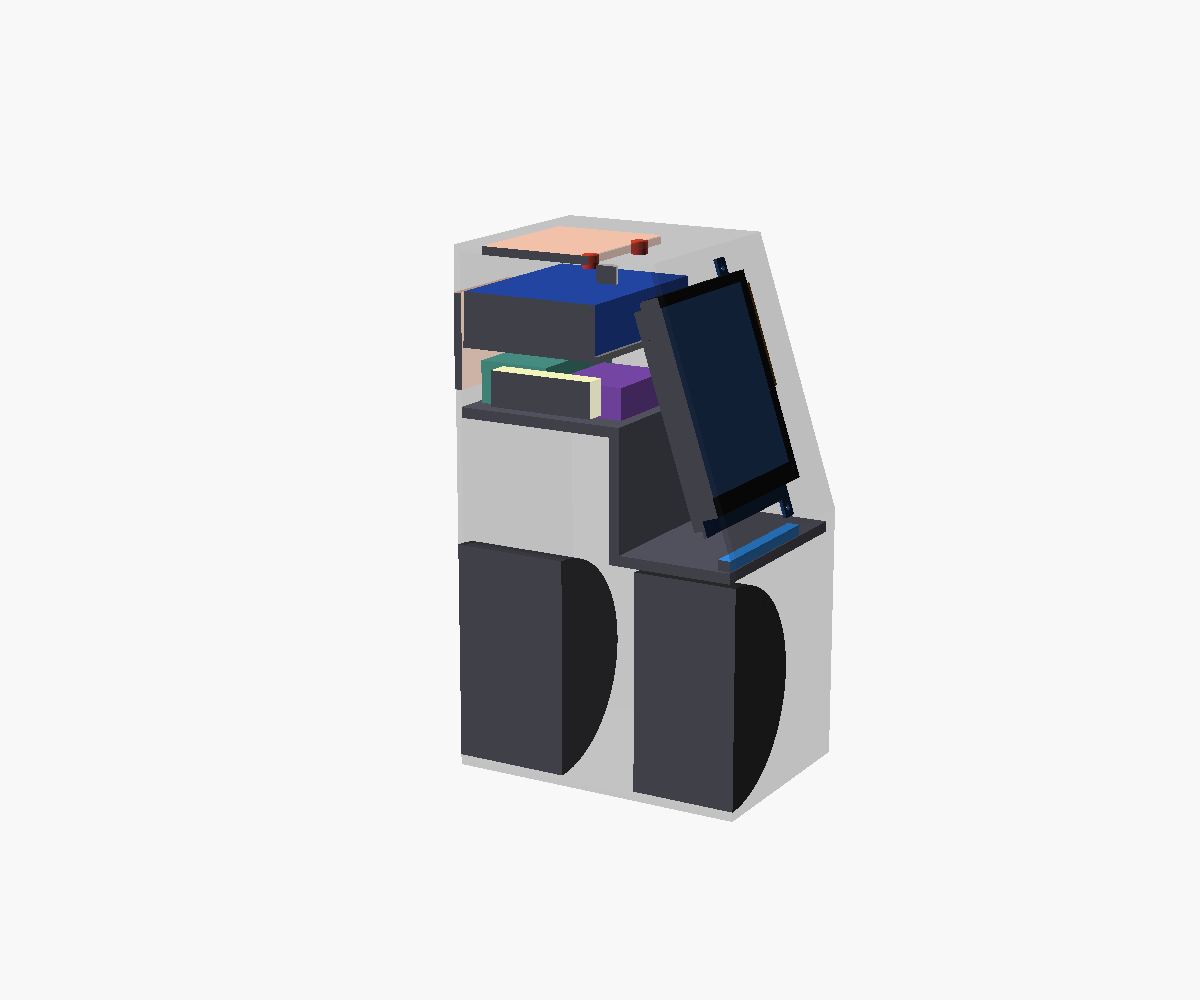
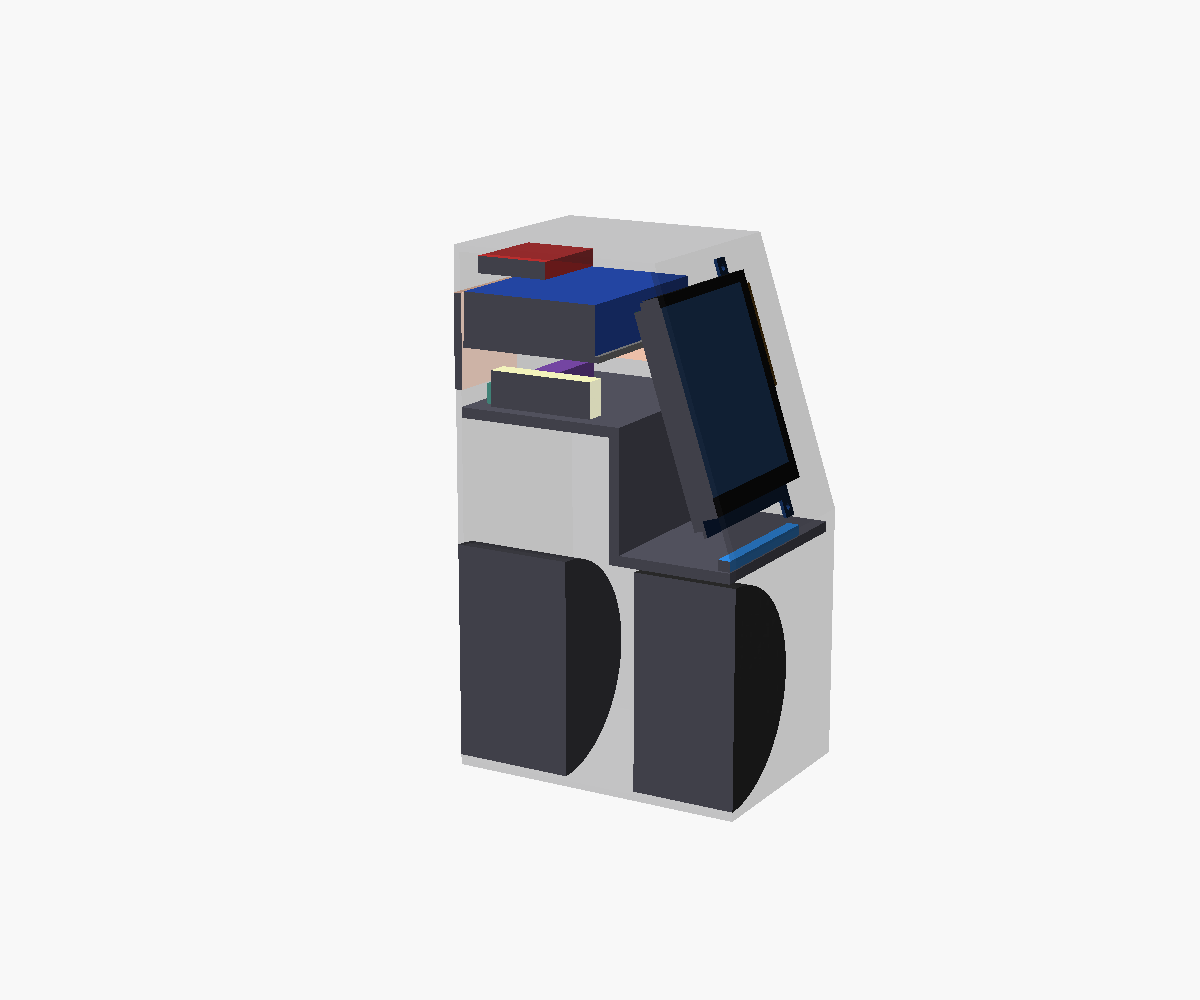
Electrónica: DAC, micrófonos, conversor y fuente
GY-PCM5102, ReSpeaker Lite USB, Pololu D36V50F5 y Mean Well GST60A24,
con presupuesto de consumo, cableado y modelo actualizado.

Claude-Session: https://claude.ai/code/session_011wCrvR5XLZziNZnBQxWkpT

Changed region(s): [[0.4625, 0.558, 0.5242, 0.775], [0.4008, 0.341, 0.555, 0.434], [0.4008, 0.217, 0.555, 0.279]]

diff --git a/tools/comprobar_volumetrico.py b/tools/comprobar_volumetrico.py
@@ -30,7 +30,7 @@ BRACING_L = 0.10
 
 # Componentes sólidos que no deben tocarse entre sí
 COMPONENTS = ["screen", "screen_conn", "pi_port_clear", "speaker", "pr", "pi5",
-              "kabd", "buck", "dac", "bracket", "dc_jack", "led_bar", "mics", "camera"]
+              "kabd", "buck", "dac", "bracket", "dc_jack", "led_bar", "mics"]
 # Componentes que atraviesan la pared o la cámara a propósito
 MAY_CROSS_SHELL = {"speaker", "pr", "dc_jack"}
 MAY_ENTER_CHAMBER = {"speaker", "pr"}

diff --git a/docs/10_electronica.md b/docs/10_electronica.md
@@ -1,7 +1,79 @@
 # 10 — Electrónica
-Camino de audio previsto:
-`Pi 5 → DAC I²S → analógico → KABD-250 → DMA105-4`
 
-El DAC definitivo está pendiente.
+## Esquema
+```text
+Fuente 24 V externa (GST60A24, 60 W)
+   │  conector DC de panel (trasera)
+   ├──────────────► KABD-250 (amplificador + DSP) ──► DMA105-4
+   │                     ▲ entrada AUX analógica
+   └─► Pololu D36V50F5 (24 → 5 V, 5,5 A)
+          ├─► Raspberry Pi 5 (USB-C)
+          │      ├─ I²S ──► GY-PCM5102 (DAC) ──► jack 3,5 mm ──► AUX del KABD-250
+          │      ├─ HDMI + USB ──► pantalla Waveshare 7"
+          │      ├─ USB ──► ReSpeaker Lite (micrófonos)
+          │      └─ SPI (GPIO10) ──► 74AHCT125 ──► barra WS2812B
+          └─► alimentación de la barra WS2812B
+```
 
-Iluminación: 8–12 WS2812B.
+## Selección
+| Función | Modelo | Por qué | Medidas |
+|---|---|---|---|
+| DAC | **GY-PCM5102** (PCM5102A) | El KABD-250 solo tiene entrada analógica y Bluetooth, sin I²S. Barato, bien soportado en la Pi 5 (`dtoverlay=hifiberry-dac`), 112 dB SNR, salida jack de 2,1 V rms | 32 × 14 mm |
+| Micrófonos | **ReSpeaker Lite USB** (XMOS XU316, 2 micrófonos) | Cancelación de eco, supresión de ruido y ganancia automática por hardware, por USB. El XVF3800 (4 micrófonos) es mejor, pero su placa de 99 mm no cabe bajo el techo con la pantalla inclinada delante | 86 × 35 mm |
+| Conversor 24 → 5 V | **Pololu D36V50F5** | 5 V, 5,5 A, entrada de 5,5 a 50 V, 80–95 % de rendimiento, muy compacto | 25,4 × 25,4 × 9,5 mm |
+| Fuente | **Mean Well GST60A24-P1J** | 24 V, 2,5 A, 60 W, de sobremesa, clavija 5,5 × 2,1 mm. Da un 60 % de margen sobre el pico calculado | externa |
+| LEDs | Barra WS2812B (8–12) + **SN74AHCT125** | La Pi da 3,3 V y los WS2812B esperan 5 V en datos: el 74AHCT125 adapta el nivel | — |
+
+## Presupuesto de consumo (estimación)
+**Rama de 5 V**
+
+| Consumidor | Pico estimado |
+|---|---:|
+| Raspberry Pi 5 + Active Cooler | 15 W |
+| Pantalla Waveshare 7" | 3 W |
+| ReSpeaker Lite | 0,5 W |
+| DAC | < 0,1 W |
+| 12 × WS2812B, brillo limitado al 40 % | 1,5 W (3,6 W al 100 %) |
+| **Total** | **≈ 20 W → 4 A a 5 V** (conversor de 5,5 A: margen de 1,5 A) |
+
+**Rama de 24 V**
+
+| Consumidor | Pico estimado |
+|---|---:|
+| Conversor (20 W / 0,9) | 22 W |
+| KABD-250, un canal a ≈10 W (límite del Xmax, ver `05_audio.md`) | 13 W |
+| **Total** | **≈ 35 W** (fuente de 60 W) |
+
+El KABD-250 recomienda 4 A porque está pensado para 2 × 50 W. Aquí solo se usa un canal y el altavoz no admite más de unos 10 W en graves, así que 2,5 A sobran.
+
+## Conexiones
+### Alimentación de la Pi 5
+- Del Pololu a la Pi con un cable USB-C corto (solo alimentación) y cable de 0,5 mm² o más grueso.
+- La Pi 5 solo reconoce 5 A si la fuente lo anuncia por USB-PD, y el Pololu no lo hace. Para que los USB den su corriente completa (la pantalla y los micrófonos cuelgan de ellos):
+  - EEPROM (`sudo rpi-eeprom-config --edit`): `PSU_MAX_CURRENT=5000`
+  - `/boot/firmware/config.txt`: `usb_max_current_enable=1`
+
+### DAC GY-PCM5102 → Pi 5
+| DAC | Pi 5 (pin) |
+|---|---|
+| VIN | 3,3 V (1) |
+| GND | GND (6) |
+| BCK | GPIO18 (12) |
+| LRCK | GPIO19 (35) |
+| DIN | GPIO21 (40) |
+| SCK | a GND (el PCM5102A genera el reloj internamente) |
+
+`/boot/firmware/config.txt`: `dtoverlay=hifiberry-dac`. Del jack del DAC al AUX del KABD-250 con el cable de 3,5 mm que trae la placa.
+
+### Barra WS2812B
+- Datos: GPIO10 (SPI0 MOSI, pin 19) → 74AHCT125 alimentado a 5 V → resistencia de 330 Ω → DIN del primer LED.
+- Condensador de 1000 µF entre 5 V y GND en la entrada de la barra.
+- La librería clásica `rpi_ws281x` no funciona en la Pi 5 (su chip de E/S, el RP1, es distinto). Se controla por SPI, por ejemplo con `adafruit-circuitpython-neopixel-spi`.
+
+## Audio: filtro y cancelación de eco
+- **Filtro paso alto de 40 Hz (D022) y ecualización:** en la Pi, con CamillaDSP o un filtro de PipeWire. Así no hace falta el programador DSPB-ICP1 para el DSP del KABD-250, que se queda con sus ajustes por defecto y los potenciómetros.
+- **Cancelación de eco:** el ReSpeaker Lite cancela el eco por hardware si recibe como referencia el mismo audio que suena. La música sale por el DAC, así que PipeWire envía una copia al ReSpeaker por USB; su salida queda sin conectar. Si esa vía no funciona bien, la alternativa es la cancelación de eco por software de PipeWire (`module-echo-cancel`, WebRTC), que funciona con cualquier micrófono.
+
+## Pendiente
+- Confirmar la separación real de los micrófonos del ReSpeaker Lite para situar los agujeros del techo.
+- Cámara opcional: sin sitio en el techo; posición por decidir.

diff --git a/docs/DECISIONS.md b/docs/DECISIONS.md
@@ -11,15 +11,17 @@
 | D008 | Cámara acústica independiente y estanca | Cerrada |
 | D009 | Envolvente 205×250×145 mm (validada en v0.3: da ≈3,3 L netos) | Provisional |
 | D010 | OpenSCAD | Cerrada |
-| D011 | DAC | Pendiente |
-| D012 | Micrófonos | Pendiente |
-| D013 | Fuente 24 V | Pendiente |
-| D014 | Buck 24→5 V | Pendiente |
+| D011 | DAC GY-PCM5102 (PCM5102A) por I²S → AUX del KABD-250 | Propuesta |
+| D012 | Micrófonos ReSpeaker Lite USB (2 micrófonos, AEC por hardware) bajo el techo | Propuesta |
+| D013 | Fuente Mean Well GST60A24-P1J (24 V, 60 W) | Propuesta |
+| D014 | Conversor Pololu D36V50F5 (5 V, 5,5 A) | Propuesta |
 | D015 | Perfil lateral: frontal inferior vertical (bafle) hasta z = 122 mm + frontal superior inclinado 18° con la pantalla. Laterales rectos (con estrechamiento no caben las clavijas de la pantalla) | Propuesta (v0.3) |
 | D016 | Cámara acústica en L: bloque inferior de ancho y fondo completos + bloque superior-trasero detrás de la pantalla | Propuesta (v0.3) |
-| D017 | Electrónica en bahía superior sobre la tapa de la cámara: Pi 5, buck y DAC en el suelo; KABD-250 en una balda encima (lado derecho). Ventilación pasiva solo en la bahía (rejilla trasera superior + techo trasero). Ningún ventilador ni rejilla en la zona de la cámara | Propuesta (v0.3) |
+| D017 | Electrónica en bahía superior sobre la tapa de la cámara: Pi 5, buck y DAC en el suelo; KABD-250 en una balda encima (lado derecho). Ventilación pasiva solo en la bahía (rejillas trasera superior y laterales). Ningún ventilador ni rejilla en la zona de la cámara | Propuesta (v0.3) |
 | D018 | DMA105-PR en la trasera inferior, coaxial con el DMA105-4 | Propuesta (v0.3) |
 | D019 | Trasera: entrada DC 24 V de panel en la bahía superior. Los puertos de la Pi no salen al exterior; si hace falta USB/HDMI externo, alargador de panel | Propuesta (v0.3) |
-| D020 | Micrófonos (hasta 4) y cámara opcional en el techo, zona delantera, lo más lejos posible del DMA105-4 | Propuesta (v0.3) |
+| D020 | Micrófonos en el techo, en la zona trasera (lo más lejos posible del DMA105-4). Cámara opcional: posición pendiente | Propuesta (v0.3) |
 | D021 | Conexión de la pantalla con clavijas acodadas: HDMI (cable plano o adaptador a 90° → micro-HDMI de la Pi) y micro-USB táctil acodado. Hueco lateral reservado de 15 mm | Propuesta (v0.3) |
-| D022 | Filtro paso alto a ≈40 Hz en el DSP del KABD-250 para proteger el altavoz por debajo de la sintonía | Propuesta |
+| D022 | Filtro paso alto a ≈40 Hz en la Pi (CamillaDSP/PipeWire) para proteger el altavoz por debajo de la sintonía | Propuesta |
+| D023 | LEDs WS2812B por SPI (GPIO10) con adaptador de nivel SN74AHCT125 | Propuesta |
+| D024 | Cancelación de eco por hardware en el ReSpeaker Lite; alternativa por software en PipeWire | Propuesta |

diff --git a/docs/BOM.md b/docs/BOM.md
@@ -6,17 +6,19 @@
 | Audio | Dayton DMA105-4 | 1 | Propuesto | Al cerrar diseño |
 | Audio | Dayton DMA105-PR | 1 | Propuesto | Al cerrar diseño |
 | Amplificación | Dayton KABD-250 | 1 | Propuesto | Al cerrar diseño |
-| Audio | DAC I²S→analógico | 1 | En estudio | No comprar todavía |
-| Micrófonos | Matriz 2–4 micrófonos | 1 | En estudio | No comprar todavía |
+| Audio | GY-PCM5102 (DAC I²S PCM5102A) | 1 | Propuesto | Al cerrar diseño |
+| Micrófonos | ReSpeaker Lite USB (2 micrófonos, XU316) | 1 | Propuesto | Al cerrar diseño |
 | Cámara | Compatible Pi | 1 | Opcional | Opcional |
 | LEDs | WS2812B | 8–12 | Propuesto | Al cerrar diseño |
-| Alimentación | Fuente externa 24 V (fuera de la carcasa) | 1 | En estudio | No comprar todavía |
+| Alimentación | Mean Well GST60A24-P1J (24 V, 60 W, externa) | 1 | Propuesto | Al cerrar diseño |
 | Alimentación | Conector DC de panel 24 V | 1 | En estudio | Al cerrar diseño |
-| Alimentación | Buck 24→5 V | 1 | En estudio | No comprar todavía |
+| Alimentación | Pololu D36V50F5 (24 → 5 V, 5,5 A) | 1 | Propuesto | Al cerrar diseño |
 | Refrigeración | Pi 5 Active Cooler | 1 | Necesario | Comprar ahora |
 | Acústica | Espuma/relleno acústico para la cámara | 1 | Propuesto | Al cerrar diseño |
 | Acústica | Junta de estanqueidad (burlete EPDM fino) | 1 | Propuesto | Al cerrar diseño |
 | Cableado | Cable HDMI plano A → micro-HDMI con cabezales a 90° | 1 | Necesario | Al cerrar diseño |
 | Cableado | Cable micro-USB acodado → USB-A (táctil) | 1 | Necesario | Al cerrar diseño |
 | Mecánica | Tornillos M2.5 × 6 autorroscantes (pantalla) | 4 | Necesario | Comprar ahora |
+| Electrónica | Adaptador de nivel SN74AHCT125 + resistencia 330 Ω + condensador 1000 µF (LEDs) | 1 | Propuesto | Al cerrar diseño |
+| Cableado | Cable USB-C corto solo alimentación (Pololu → Pi 5) | 1 | Necesario | Al cerrar diseño |
 | Mecánica | Inserts/tornillos M3 | varios | Necesario | Al cerrar diseño |

diff --git a/docs/08_distribucion.md b/docs/08_distribucion.md
@@ -18,15 +18,15 @@ Envolvente de trabajo: **205 × 250 × 145 mm** (ancho × alto × fondo).
 | Interior inferior + superior-trasero | Cámara acústica en L (D016) |
 | Trasera inferior | DMA105-PR (D018) |
 | Bahía superior (z ≥ 175 mm) | Suelo: Pi 5 con Active Cooler (izquierda), buck y DAC (derecha). Balda encima: KABD-250. Huecos de 20 mm delante de los puertos de la Pi |
-| Trasera superior | Rejilla de ventilación + entrada DC 24 V (D017, D019) |
-| Techo | Micrófonos (4) y cámara opcional delante; rejilla de salida de aire detrás |
+| Trasera superior y laterales (altura de la bahía) | Rejillas de ventilación + entrada DC 24 V en la trasera (D017, D019) |
+| Techo | ReSpeaker Lite (86 × 35 mm) justo bajo el techo, zona trasera, con 2 agujeros para los micrófonos. Cámara opcional: posición pendiente |
 
 ![Sección lateral v0.3](img/v0_3_seccion_lateral.png)
 
 ![Bahía de electrónica](img/v0_3_bahia.png)
 
 ## Criterios
-- Todo el calor queda en la bahía superior. Entra aire por la rejilla trasera y sale por el techo (convección natural). Nada de ventiladores junto a la cámara.
+- Todo el calor queda en la bahía superior, ventilada por rejillas en la trasera y en los laterales. Nada de ventiladores junto a la cámara.
 - La Pi va en orientación normal. Sus USB miran a la derecha, hacia el hueco libre (ahí va el cable táctil). Los micro-HDMI y el USB-C miran hacia la pantalla.
 - El cable HDMI va del canto derecho de la pantalla, delante del KABD-250, hasta el micro-HDMI de la Pi.
 - Micrófonos lo más lejos posible del altavoz y desacoplados de la carcasa.

diff --git a/README.md b/README.md
@@ -11,12 +11,12 @@ Asistente inteligente de sobremesa con Raspberry Pi 5, pantalla táctil de 7", a
 - Dayton DMA105-4 — propuesto
 - Dayton DMA105-PR — propuesto
 - Dayton KABD-250 — propuesto
-- DAC I²S→analógico — pendiente
-- Matriz de 2–4 micrófonos — pendiente
+- DAC GY-PCM5102 (PCM5102A, I²S) — propuesto
+- ReSpeaker Lite USB (2 micrófonos con AEC) — propuesto
 - WS2812B, 8–12 LEDs — propuesto
 - Cámara — opcional
-- Fuente externa 24 V — pendiente
-- Buck 24→5 V — pendiente
+- Fuente Mean Well GST60A24-P1J (24 V, 60 W) — propuesta
+- Conversor Pololu D36V50F5 (24→5 V, 5,5 A) — propuesto
 
 ## Arquitectura
 ```text
@@ -29,7 +29,7 @@ Pantalla → Raspberry Pi 5 → DAC → KABD-250 → DMA105-4
 
 ## Distribución (v0.3)
 ```text
-              techo: micrófonos · cámara · salida de aire
+              techo: micrófonos (ReSpeaker Lite)
            ┌───────────────────────────┐
           ╱   bahía: Pi 5 · KABD · DAC │ ← rejilla + DC 24 V
  pantalla╱      ┌──────────────────────┤

diff --git a/CHANGELOG.md b/CHANGELOG.md
@@ -1,4 +1,10 @@
 # Changelog
+## v0.3.2
+- Electrónica propuesta: DAC GY-PCM5102, ReSpeaker Lite USB, Pololu D36V50F5 y Mean Well GST60A24 (D011–D014), con presupuesto de consumo y cableado en `docs/10_electronica.md`.
+- LEDs por SPI con adaptador de nivel (D023); cancelación de eco (D024); filtro paso alto en la Pi (D022).
+- Simulación de graves (`tools/simulacion_audio.py`): radiador pasivo con ≈10 g, sintonía ≈43 Hz.
+- Modelo: DAC, conversor y micrófonos con sus medidas reales; ventilación trasera y lateral; cámara opcional sin posición.
+
 ## v0.3.1
 - Pantalla con las cotas del plano oficial de Waveshare: 124,27 mm de alto con pestañas, taladros a 156,90 × 114,96 mm y posición exacta de HDMI, micro-USB e interruptor.
 - PCB modelado con pestañas y hueco central.

diff --git a/hardware/power/README.md b/hardware/power/README.md
@@ -1,2 +1,2 @@
 # Alimentación
-Fuente externa 24 V (fuera de la carcasa) + conector DC de panel + buck 24→5 V. Selección pendiente.
+Fuente Mean Well GST60A24-P1J (24 V, 60 W, externa) + conector DC de panel + Pololu D36V50F5 (24 → 5 V, 5,5 A). Presupuesto de consumo en `docs/10_electronica.md`.

diff --git a/hardware/microphones/README.md b/hardware/microphones/README.md
@@ -1,2 +1,2 @@
 # Micrófonos
-Modelo pendiente.
+ReSpeaker Lite USB (XMOS XU316, 2 micrófonos, AEC por hardware), 86 × 35 mm, bajo el techo. Ver `docs/10_electronica.md`.
